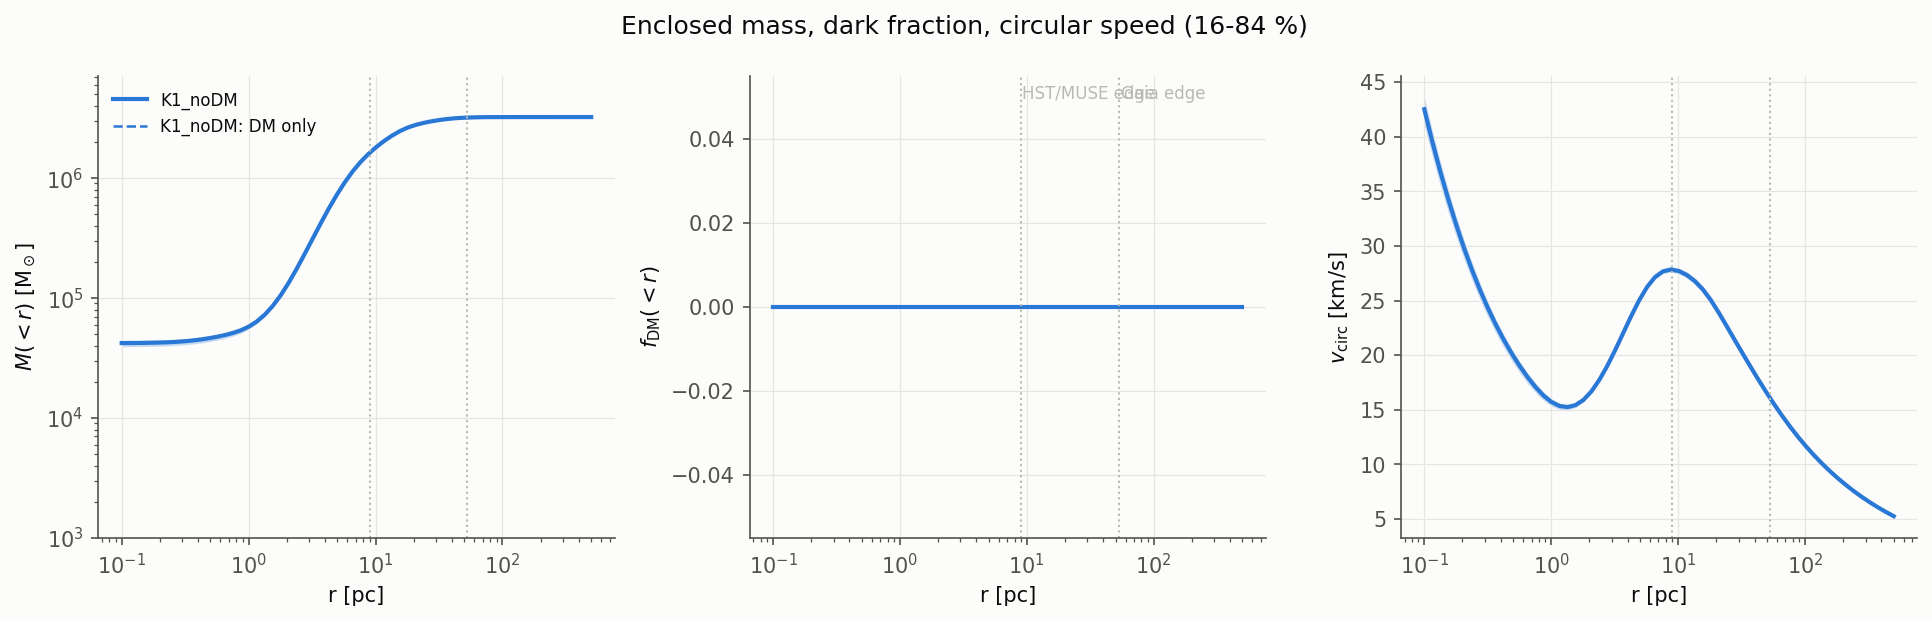
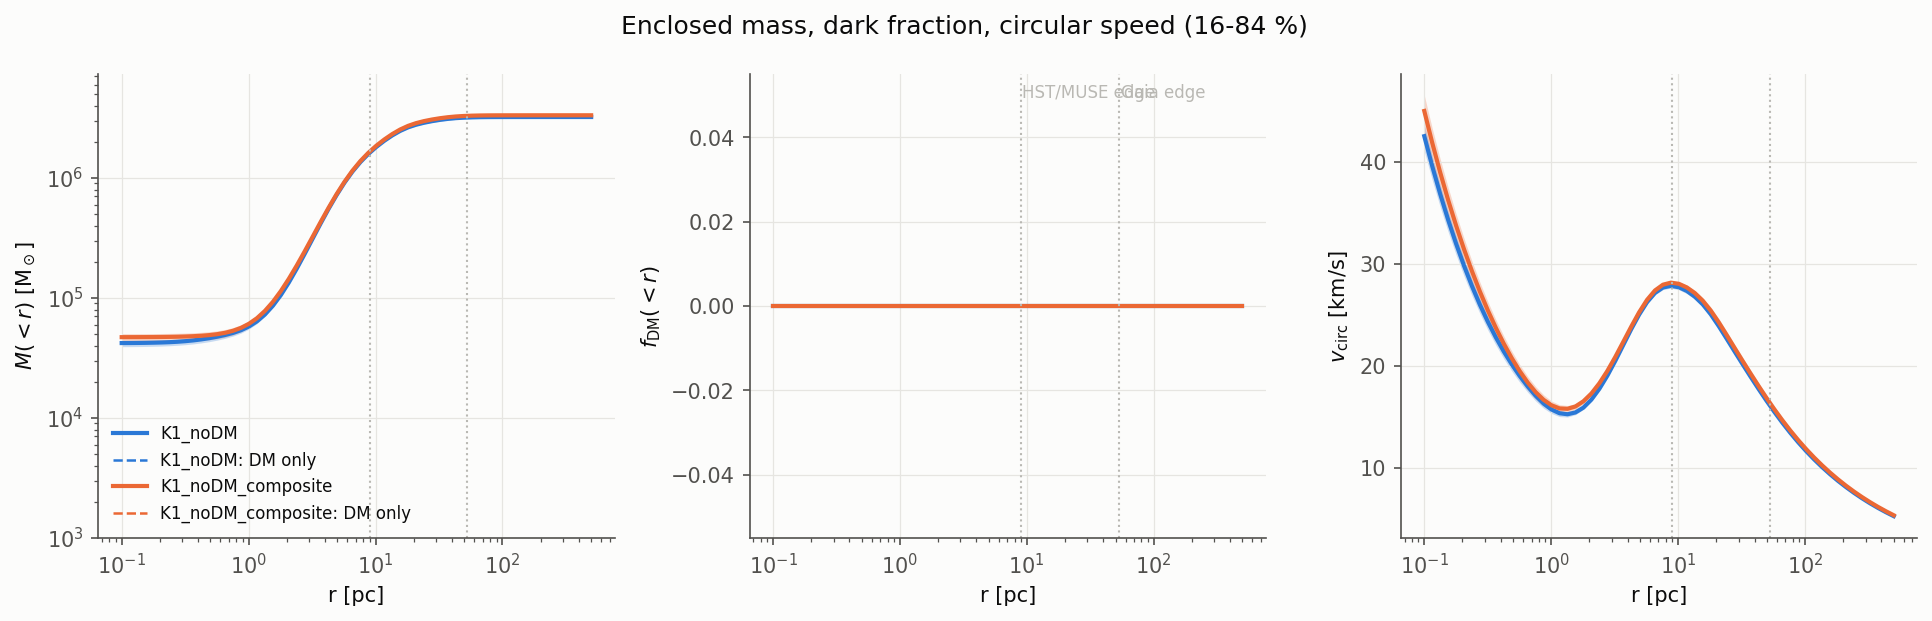
Journal: K1 composite-tracer posterior; comparison figures

diff --git a/JOURNAL.md b/JOURNAL.md
@@ -1120,3 +1120,35 @@ as a result. Figures: `plots/fit_K1_noDM_posterior_profiles.png`,
 `plots/fit_posterior_profiles.png` (to be overwritten by the multi-run comparison).
 Composite-tracer runs at the time of writing: K1 remainder 70 % (Lmax 204), K2-cored
 remainder 99.9 % (Lmax 224.6), K2-NFW remainder 99.9 % (Lmax 210).
+
+### K1 with the composite tracer (the reference no-DM model)
+
+2.0M calls / 161 min. **ln Z = 160.17 ± 0.54; max ln L = 206.5; χ² 287 / 126** (HST R
+64/40, T 77/40, MUSE 50/29, DR2 13/9, EDR3 84/8). Medians [16–84 %]: M★ = 2.61e6 [2.55,
+2.97], M_rem = 6.4e5 [4.2, 7.1] at a_rem = 5.1 pc [4.6, 5.3], **M• = 4.65e4 [4.27, 4.98]**,
+**β₀ = −0.72 [−0.74, −0.71]**, β∞ = 0.200 [0.195, 0.205], r_β = 1.09 pc [1.03, 1.16],
+s_MUSE = 0.973, s_DR2 = 0.947, s_EDR3 = 1.056, **D = 5.489 [5.476, 5.530] kpc**.
+
+Two things to take seriously and one to distrust. (i) The evidence prefers the composite
+tracer over the light-weighted one by **Δ ln Z = +73** with the same K1 physics — the
+tracer choice is settled by the data, not by argument. (ii) D = 5.49 kpc reproduces
+oMEGACat VI's kinematic distance (5.494 ± 0.061) independently of their modelling, with the
+equipartition nuisance absorbing the MUSE/HST offset (s_MUSE = 0.973 ± 0.008). (iii) The
+sampler's maximum (206.5) is far above every Nelder–Mead maximum I quoted yesterday
+(≤ 150.7): those optimiser numbers were not maxima, and the tracer comparison made from
+them (mis-spliced vs corrected) is void. The posterior itself sits in a corner the
+optimiser never found: **a 4.6e4 M☉ point mass with a strongly tangential core
+(β₀ = −0.72) turning radial by 1 pc**, plus an unsegregated 6.4e5 M☉ remnant sphere.
+Tangential bias near a central mass is what the cusp needs to keep σ_R flat while the
+point mass lifts σ_T and σ_LOS — a legitimate solution of the Jeans equation, but M• is
+4× the literature upper limit (Baumgardt+ 2019 ≲ 1.2e4; Häberle+ 2024 ≥ 8.2e3 from fast
+stars), and the ±7 % width comes from a model with χ²/N = 2.3. I do not read it as a BH
+measurement. It is the K1 family saying: the inner 10″ want more central mass than the
+flat-cored tracer plus a diffuse remnant population can give it, and given only a point
+mass and an anisotropy profile, this is the best it can do.
+
+Launched: the **no-DM false-positive injection** (K2-cored fitted to a mock drawn from the
+K1-composite best sample with the real bins and errors) and a **K1 variant without the
+Gaia EDR3 profile** (its 8 points with 1 % model-percentile errors carry 84 of the 287 χ²).
+K2-cored and K2-NFW composite runs at 35–38 % remainder (ln Z 184.9 and 171.8 and rising —
+already above K1's 160.2; not final).
